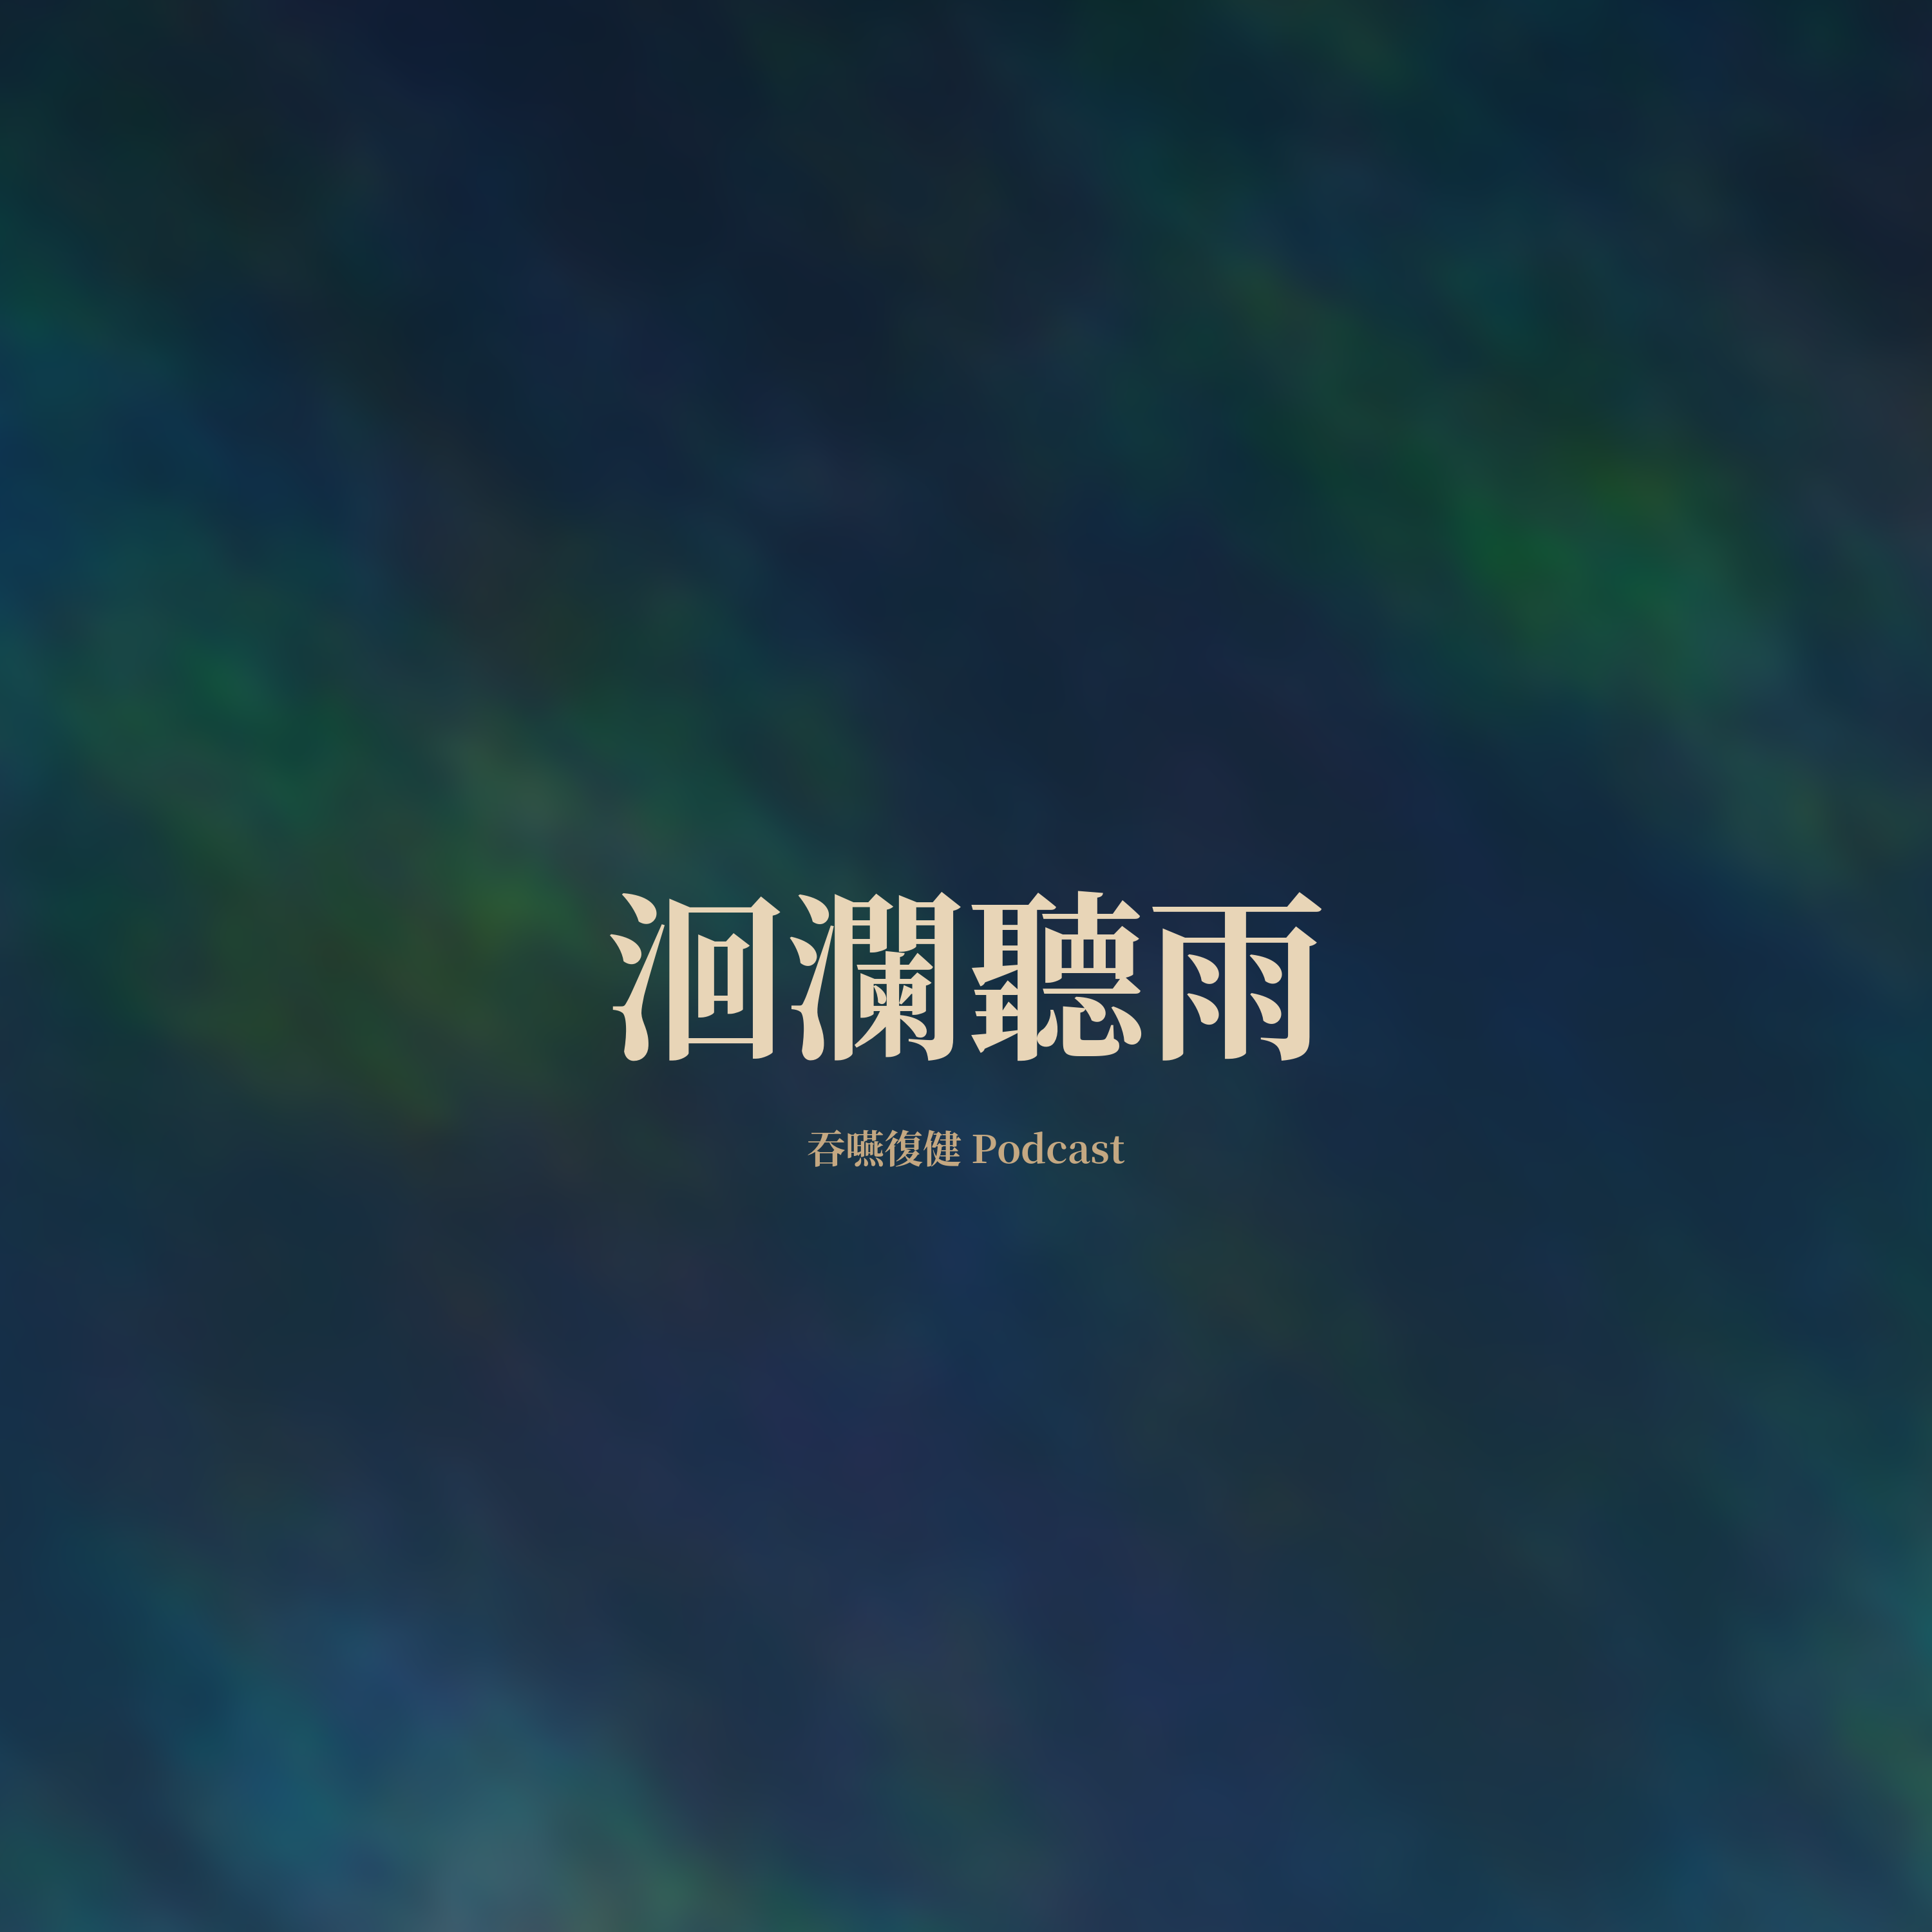
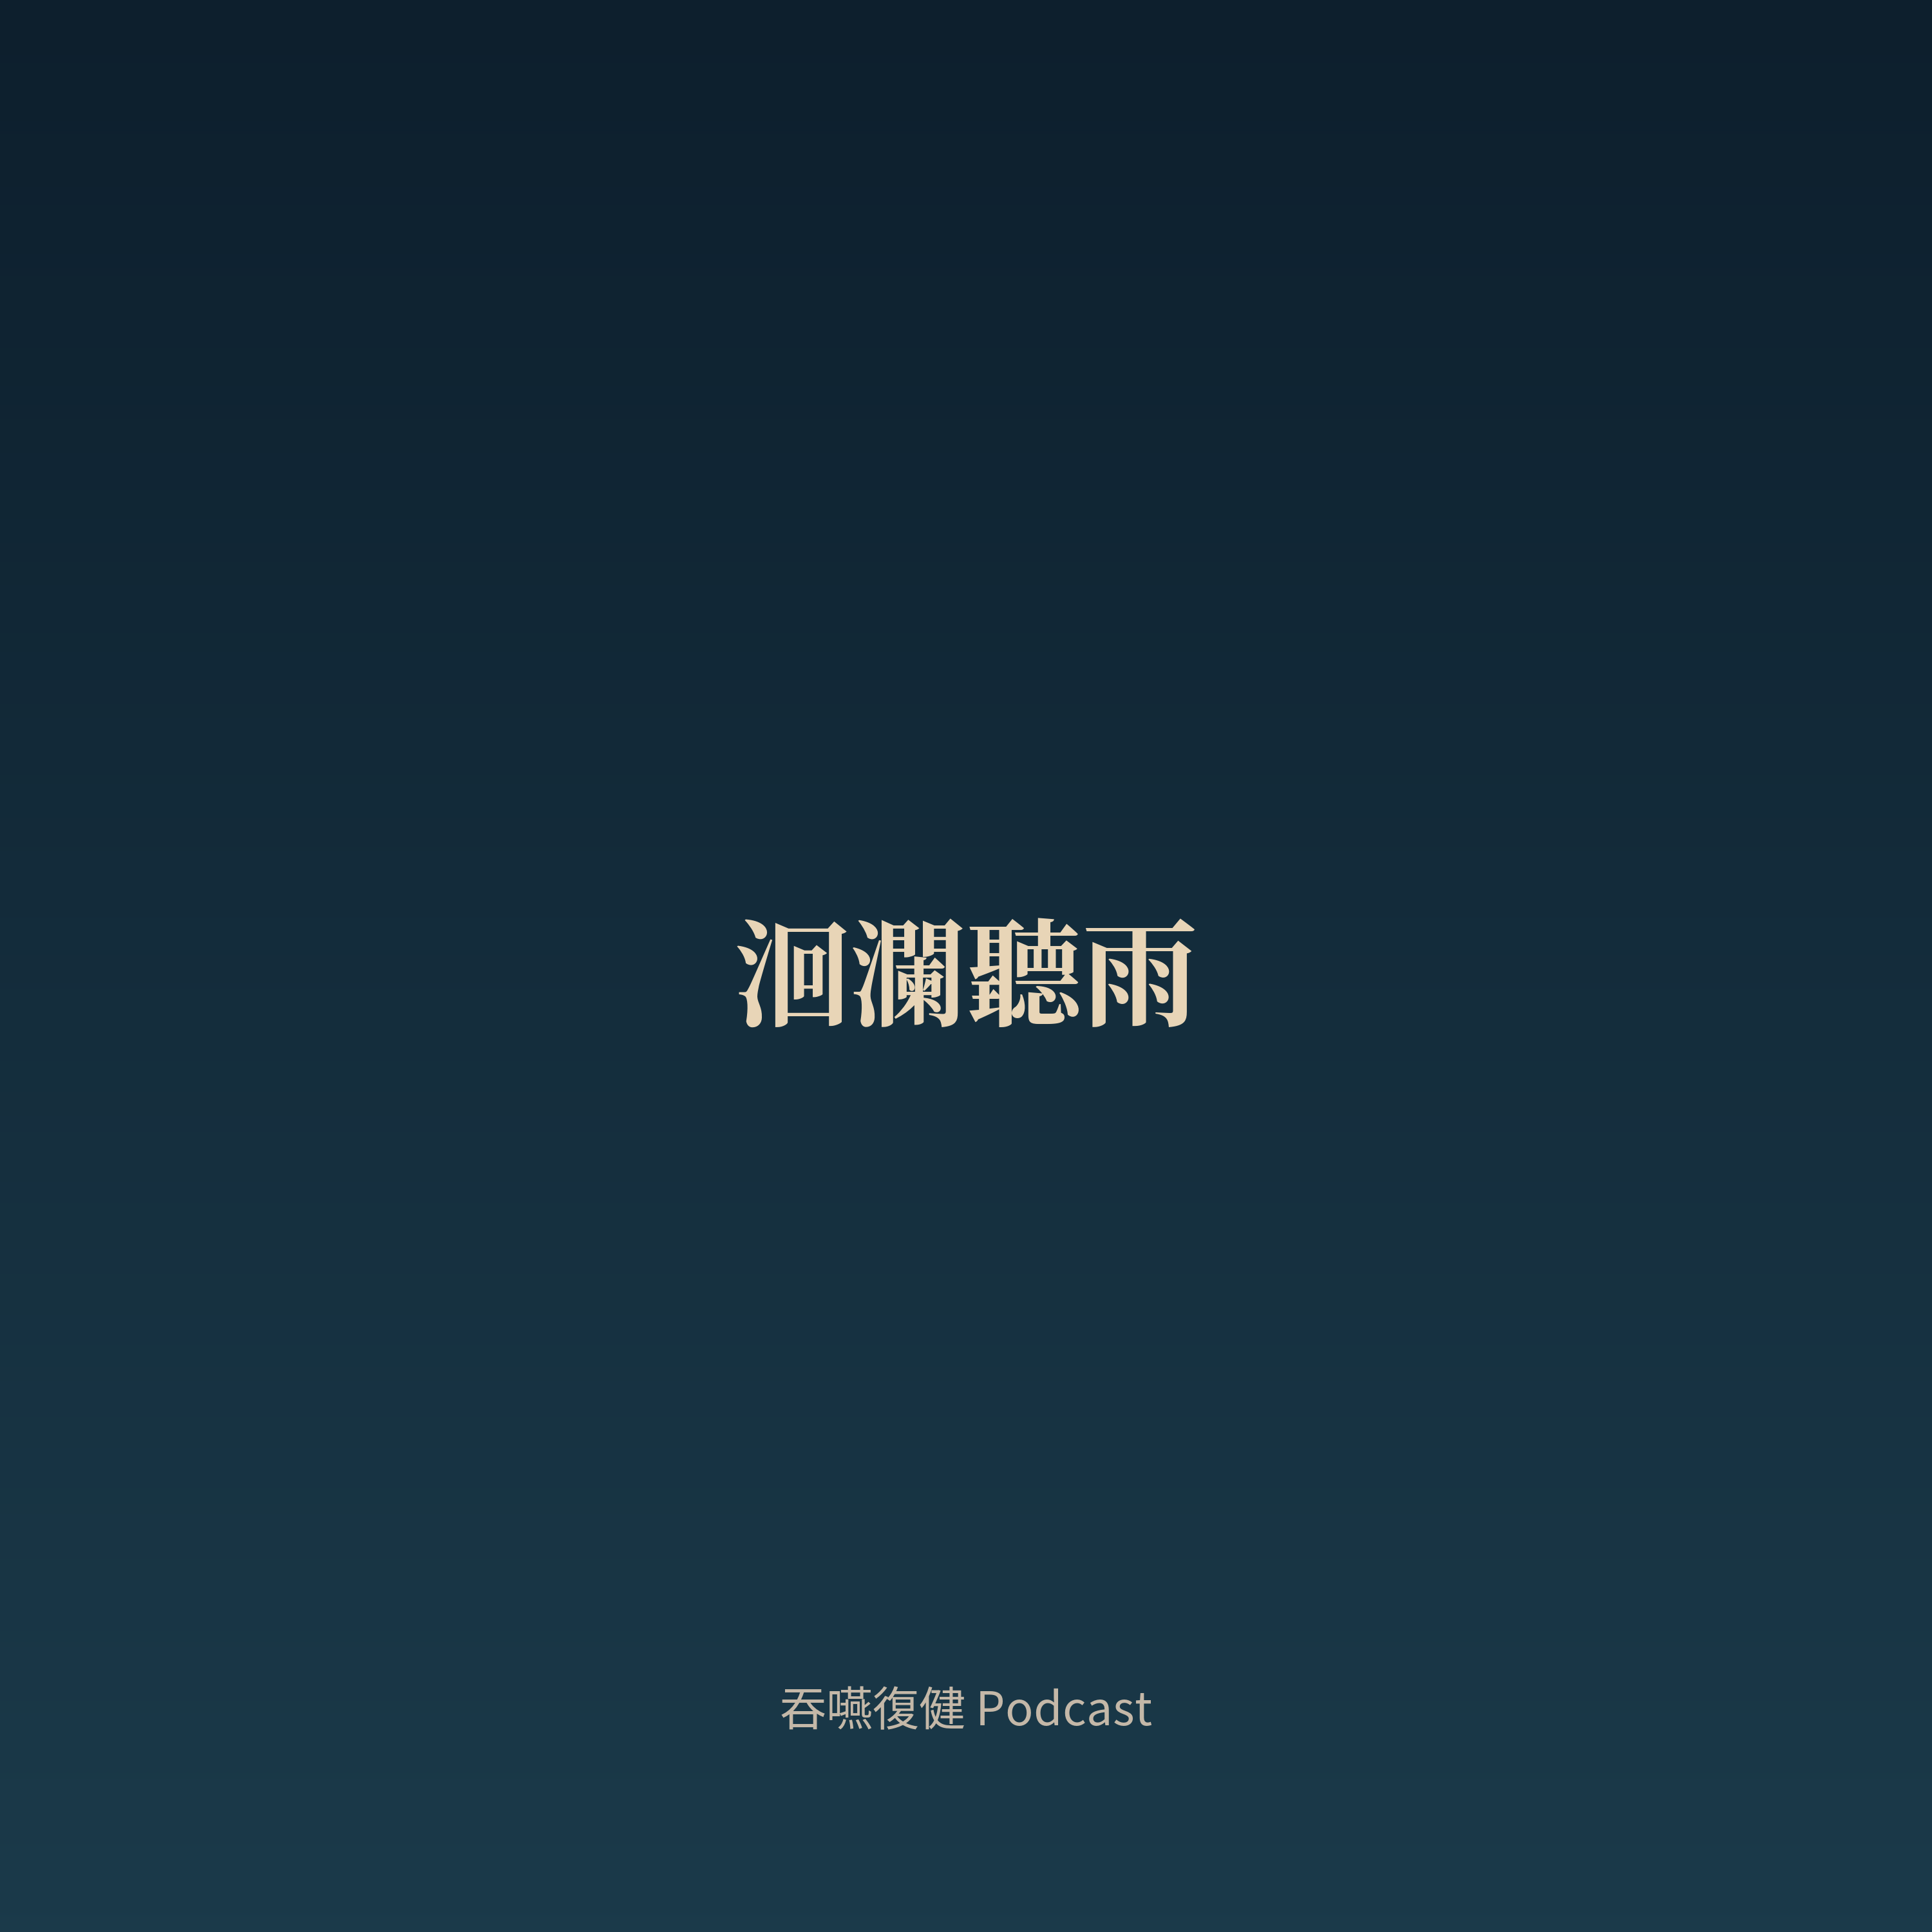
fix: use Google Drive file ID for audio URLs (stable, position-independent)
- Audio URL now uses file.id instead of ep{N}.mp3
- GUID includes file.id for uniqueness (像拉拉熊做法)
- 增刪檔案不影響現有集數的網址對應

diff --git a/server.js b/server.js
@@ -286,12 +286,13 @@ function parseEpisodeMeta(file, index, totalFiles, id3meta) {
   }
   const size = parseInt(file.size || 0);
   // 使用 Zeabur 代理（支援 Apple 要求的 HEAD 與 byte-range 請求）
-  const audioUrl = `${SITE_URL.replace(/\/$/, "")}/audio/ep${episodeNum}.mp3`;
+  // 使用 Google Drive 檔案 ID 作為網址（不依賴排序位置，增刪檔案也不影響對應）
+  const audioUrl = `${SITE_URL.replace(/\/$/, "")}/audio/${file.id}.mp3`;
   const duration = Math.floor(size / 16000);
 
-  // Stable GUID: based on filename, not position
-  // Same filename = same episode (handles re-upload/replacement correctly)
-  const guid = `huilan_tingyu_${file.name.replace(/\.mp3$/i, "")}`;
+  // Stable GUID: based on filename + file ID (與拉拉熊做法一致)
+  // file.id 確保唯一性，即使同名檔案重新上傳也是不同 ID
+  const guid = `huilan_tingyu_${file.name.replace(/\.mp3$/i, "")}_${file.id}`;
 
   return { title, description, pubDate, size, audioUrl, duration, episodeNum, guid };
 }